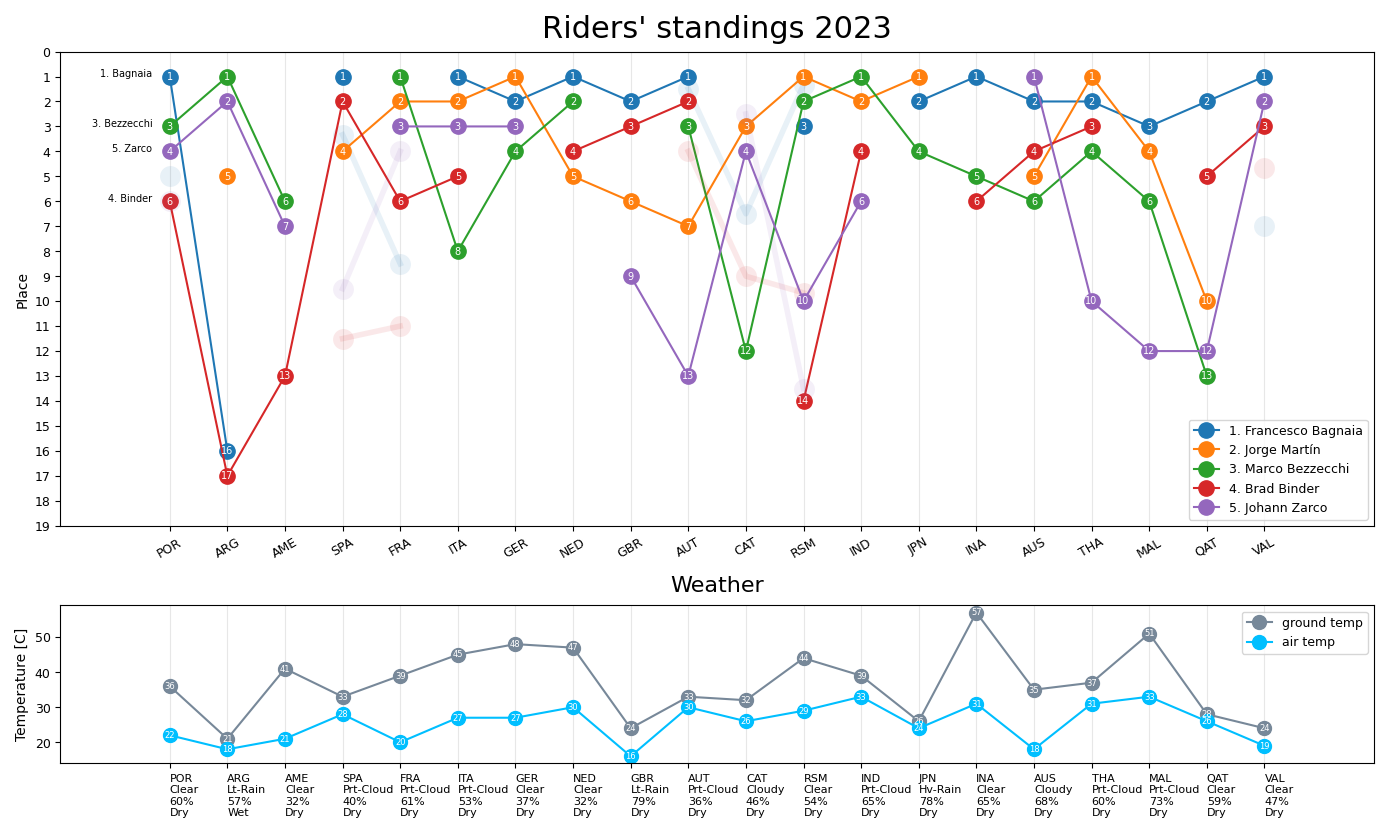
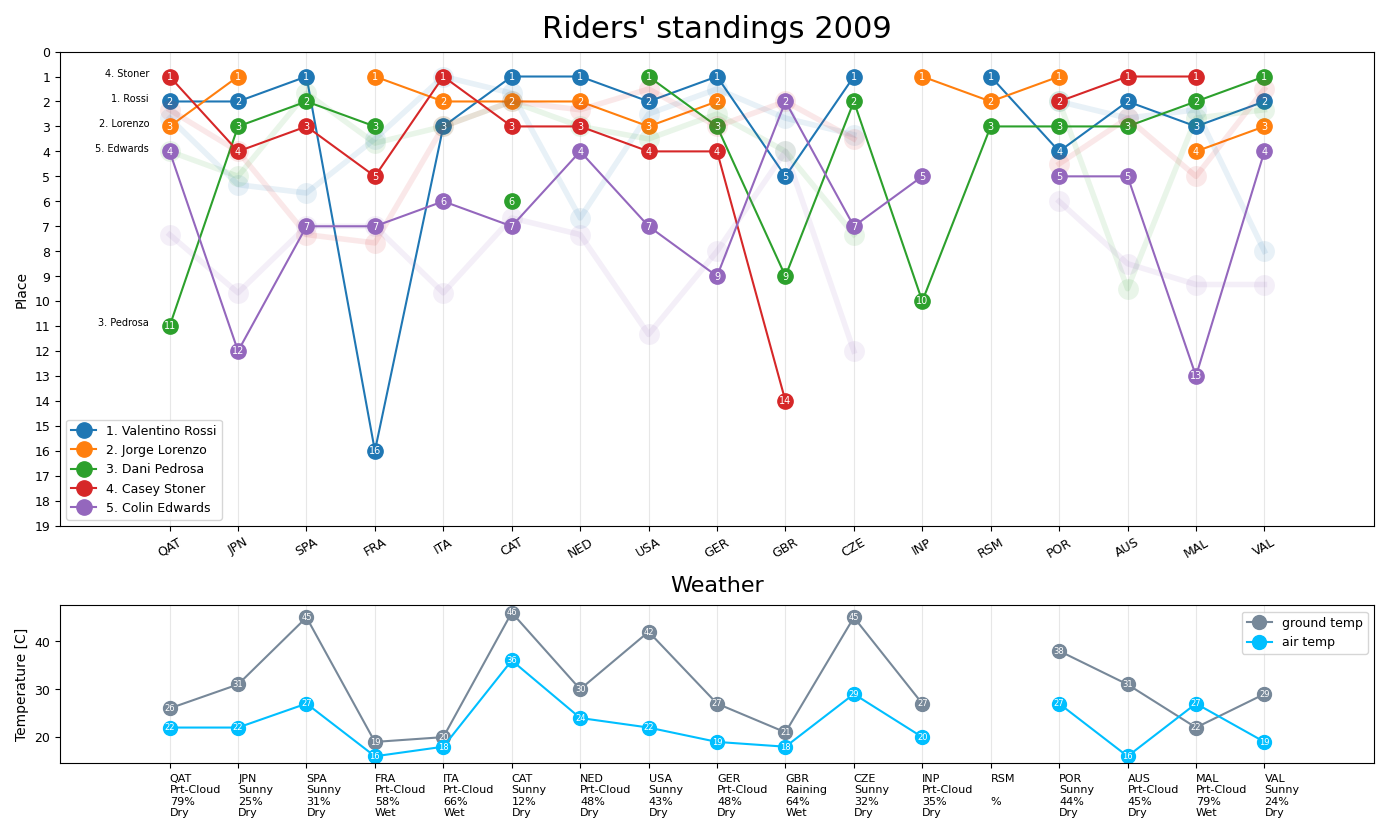
feat: dynamically generating plot with year chosen in dropdown list

diff --git a/charts_app/templates/charts_app/index.html b/charts_app/templates/charts_app/index.html
@@ -4,10 +4,20 @@
 <head>
     <meta charset="UTF-8">
     <title>MotoGP stats</title>
+
+    {% load static %}
+    <link href="{% static 'charts_app/styles.css' %}" rel="stylesheet">
 </head>
 
 <body>
-    <img src="{{ MEDIA_URL }}plot.png" style="height:70vh; display: block;margin:auto">
+    <img src="{{ MEDIA_URL }}plot.png" class="max-width">
+    <div class="max-width">
+        <form action="" method="post">
+            {% csrf_token %}
+            {{ form }}
+            <input type="submit" style="display: block; margin:auto">
+        </form>
+    </div>
 
 </body>
 

diff --git a/charts_app/static/charts_app/styles.css b/charts_app/static/charts_app/styles.css
@@ -1,0 +1,5 @@
+.max-width {
+    width: 70vw;
+    display: block;
+    margin: auto
+}

diff --git a/charts_app/views.py b/charts_app/views.py
@@ -1,7 +1,44 @@
+from datetime import datetime
+
+from django import forms
 from django.shortcuts import render
 from django.conf import settings
+from charts_app.utils.MotoGP_utils import plot_chart
+
+CURRENT_YEAR = datetime.now().year
+
+
+class parameters_form(forms.Form):
+    years_list = [tuple([x, x]) for x in range(2002, CURRENT_YEAR + 1)]
+
+    year_chosen = forms.IntegerField(
+        label="Select year", widget=forms.Select(choices=years_list)
+    )
 
 
 # Create your views here.
 def index(request):
-    return render(request, "charts_app/index.html", {"MEDIA_URL": settings.MEDIA_URL})
+
+    # show plot (POST)
+    if request.method == "POST":
+        year = int(request.POST["year_chosen"])
+        if year in range(2002, CURRENT_YEAR + 1):
+            plot_chart(year)
+
+            # render and fill form with entered data
+            return render(
+                request,
+                "charts_app/index.html",
+                {
+                    "MEDIA_URL": settings.MEDIA_URL,
+                    "form": parameters_form(request.POST),
+                },
+            )
+
+    # input form data (GET)
+    if request.method == "GET":
+        return render(
+            request,
+            "charts_app/index.html",
+            {"MEDIA_URL": settings.MEDIA_URL, "form": parameters_form()},
+        )

diff --git a/charts_app/utils/MotoGP_utils.py b/charts_app/utils/MotoGP_utils.py
@@ -96,7 +96,7 @@ class Cleaning:
 class GatheringReasultsFrom:
     def __init__(self, year: int):
         self.year = year
-        self.CACHE_PATH = "utils/cache/"
+        self.CACHE_PATH = "charts_app/utils/cache/"
 
         if self.year < 2012:
             self.WIKI_URL = f"https://en.wikipedia.org/wiki/{self.year}_Grand_Prix_motorcycle_racing_season"
@@ -513,12 +513,11 @@ class Plotting:
         # plt.show()
 
 
-def main():
+def plot_chart(year=2023):
     # config:
     show_riders_pos = [1, 5]
     show_average_hist_results = True
     MIN_YEAR = 2002  # MotoGP: 2002-current
-    year = 2023
 
     if year < MIN_YEAR:
         raise ValueError("Year must be >= 2002")
@@ -547,4 +546,4 @@ def main():
 
 
 if __name__ == "__main__":
-    main()
+    plot_chart()
